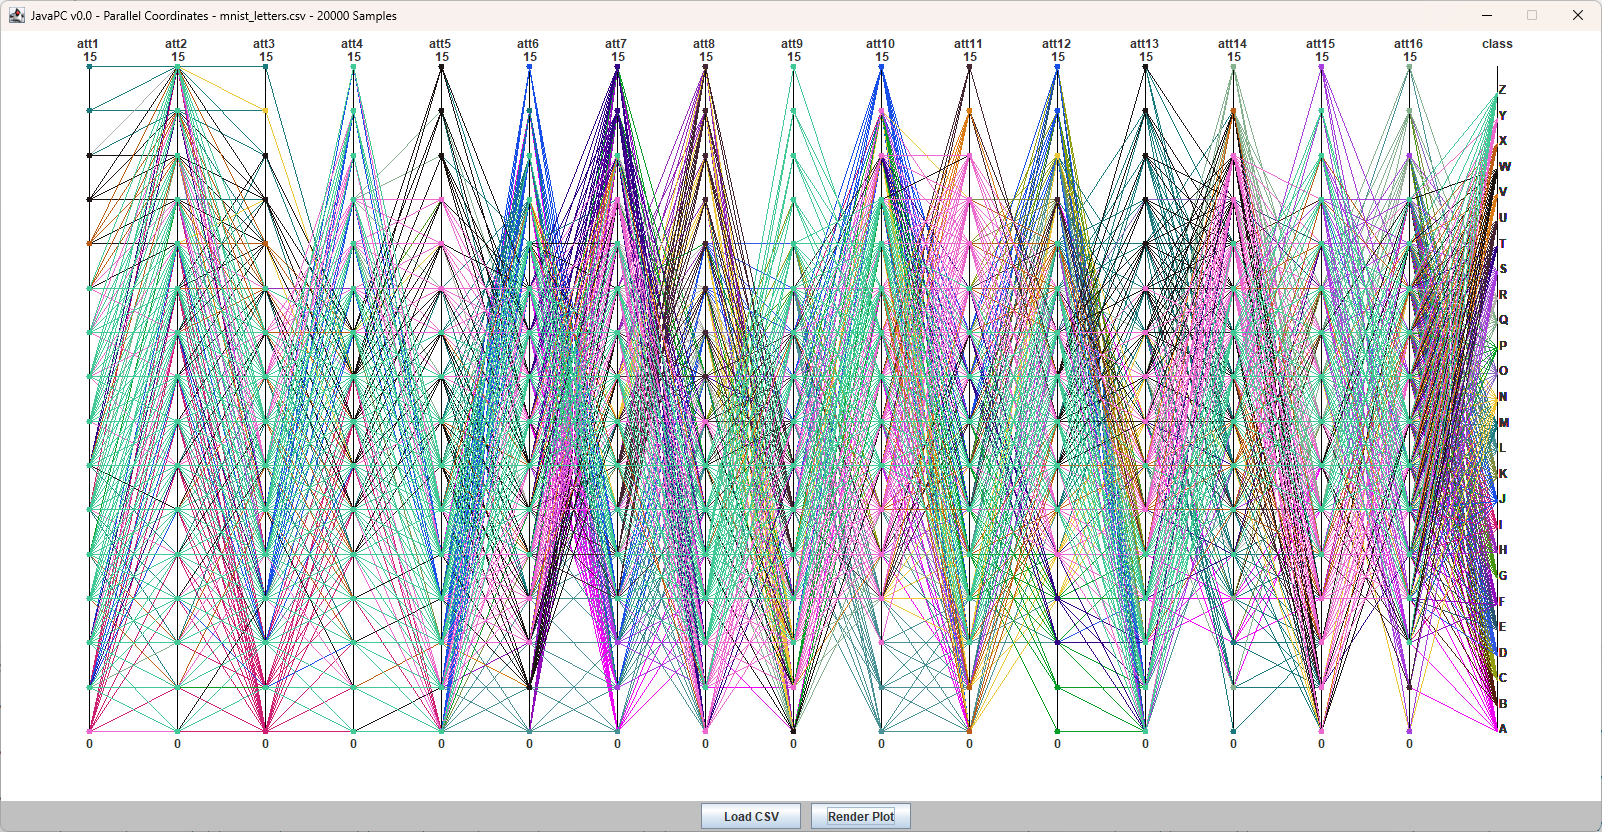
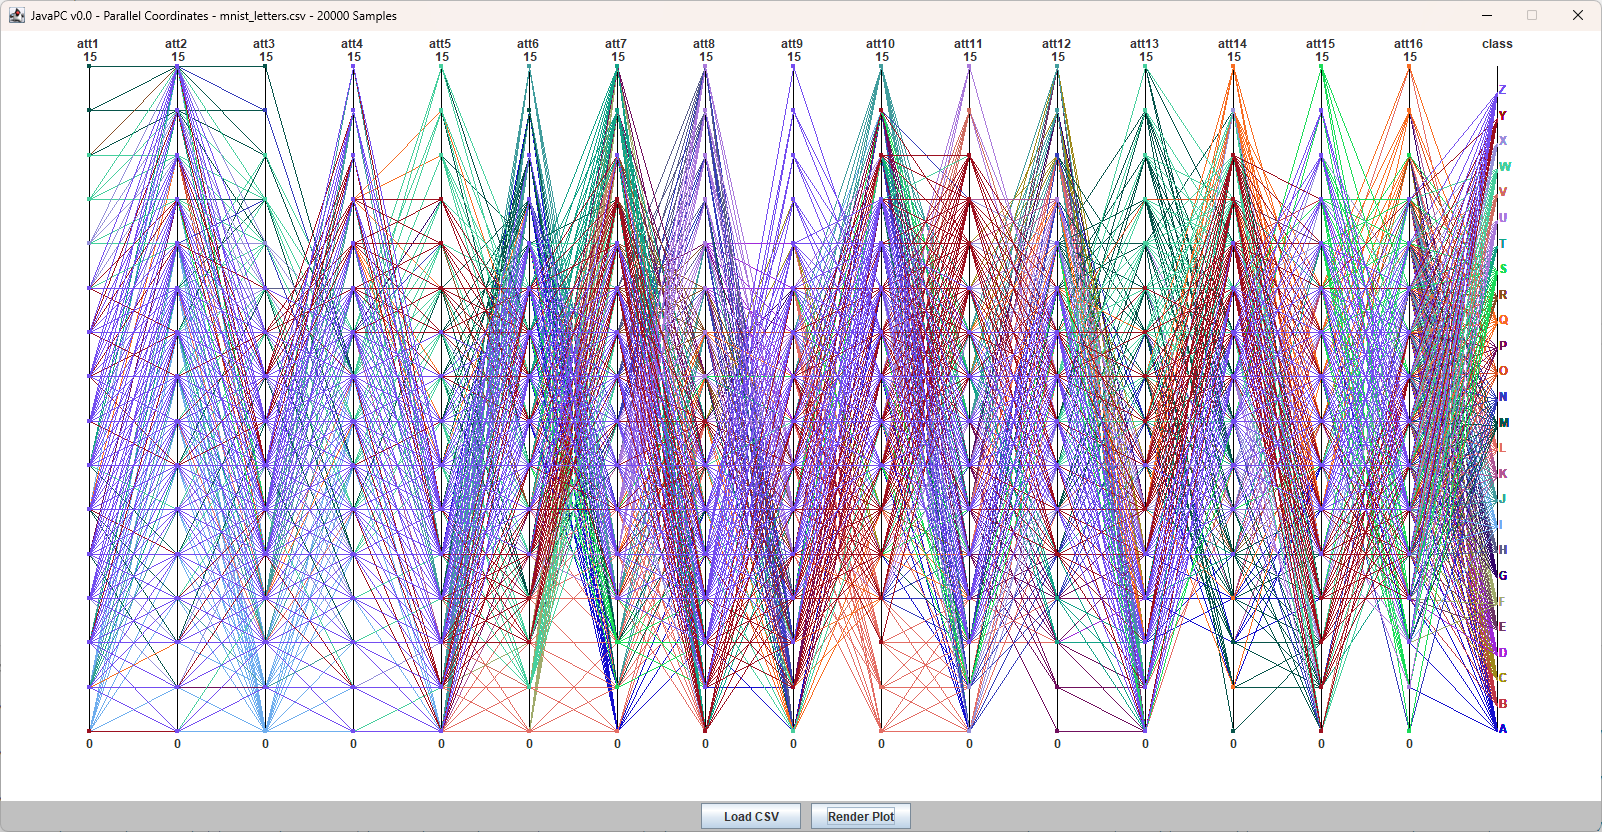
Color class labels

diff --git a/javaPC/PlotPanel.java b/javaPC/PlotPanel.java
@@ -111,7 +111,7 @@ public class PlotPanel extends JPanel {
                     Float nextDataPnt = Float.parseFloat(data[j][i]);
                     int nextPos = Math.round((panelHeight + 35 - margin - margin) * ((nextDataPnt - mins[i]) / (maxes[i] - mins[i])) + margin);
                     // draw n datapoint
-                    g.fillOval(x - 3, panelHeight - pos - 3, 6, 6);
+                    g.fillOval(x - 3, panelHeight - pos - 3, 5, 5);
                     // connect n to n+1 datapoints with an edge
                     g.drawLine(x, panelHeight - pos, lineSpacing * (i + 1), panelHeight - nextPos);
                 } else if (i == axisCount - 1){
@@ -119,15 +119,15 @@ public class PlotPanel extends JPanel {
                     
                     if (classNums.containsKey(className)) {
                         int nextDataPnt = (panelHeight + 35 - margin - margin) * classNums.get(className) / colorMap.size() + margin;
-                        g.fillOval(x - 3, panelHeight - pos - 3, 6, 6);
+                        g.fillOval(x - 3, panelHeight - pos - 3, 5, 5);
                         g.drawLine(x, panelHeight - pos, lineSpacing * (i + 1), panelHeight - nextDataPnt);
                         JLabel label = new JLabel(className);
+                        label.setForeground(colorMap.get(className));
                         int xPos = lineSpacing * (i+1) + className.length() * 4;
                         xPos -= (int)Math.floor(2*className.length());
                         int yPos = panelHeight - nextDataPnt - 10;
                         Point position = new Point(xPos, yPos);
                         label.setLocation(position);
-
                         // Set the size of the label
                         int width = 150;
                         int height = 15;
